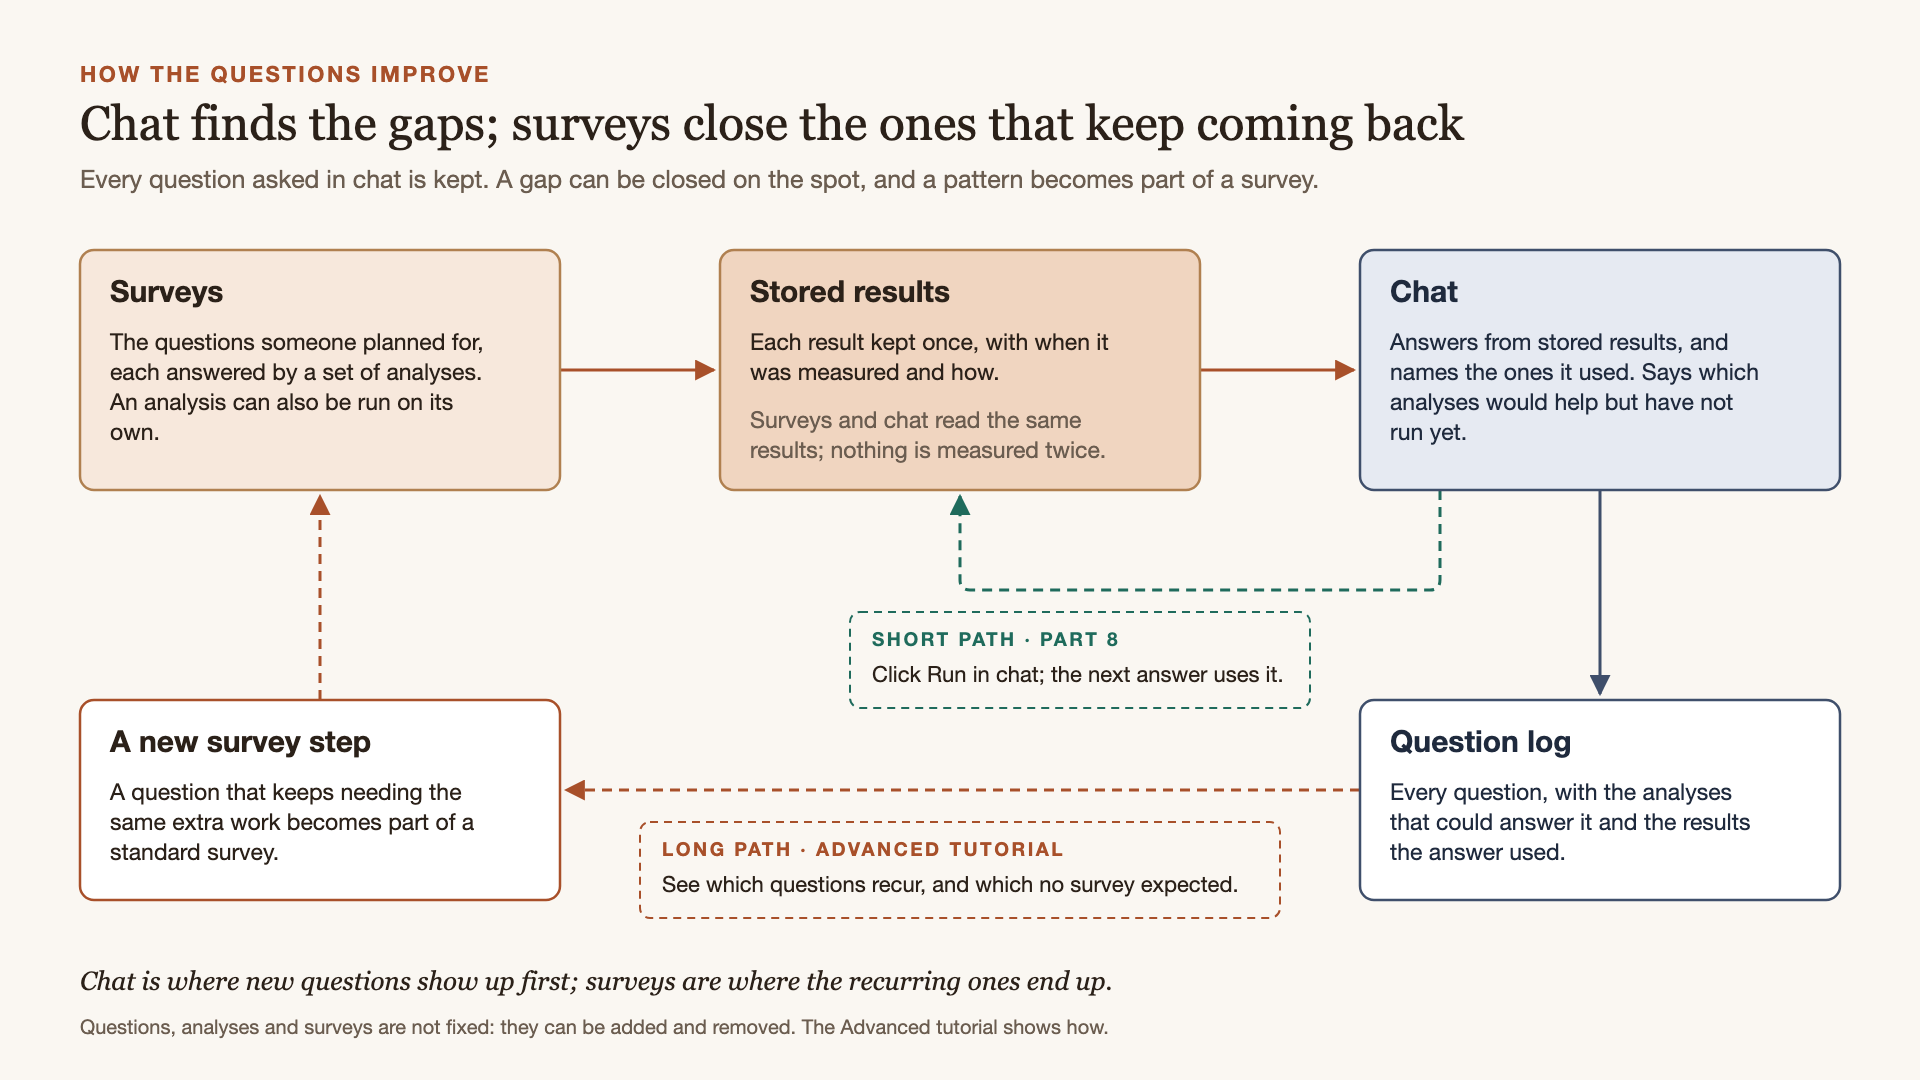
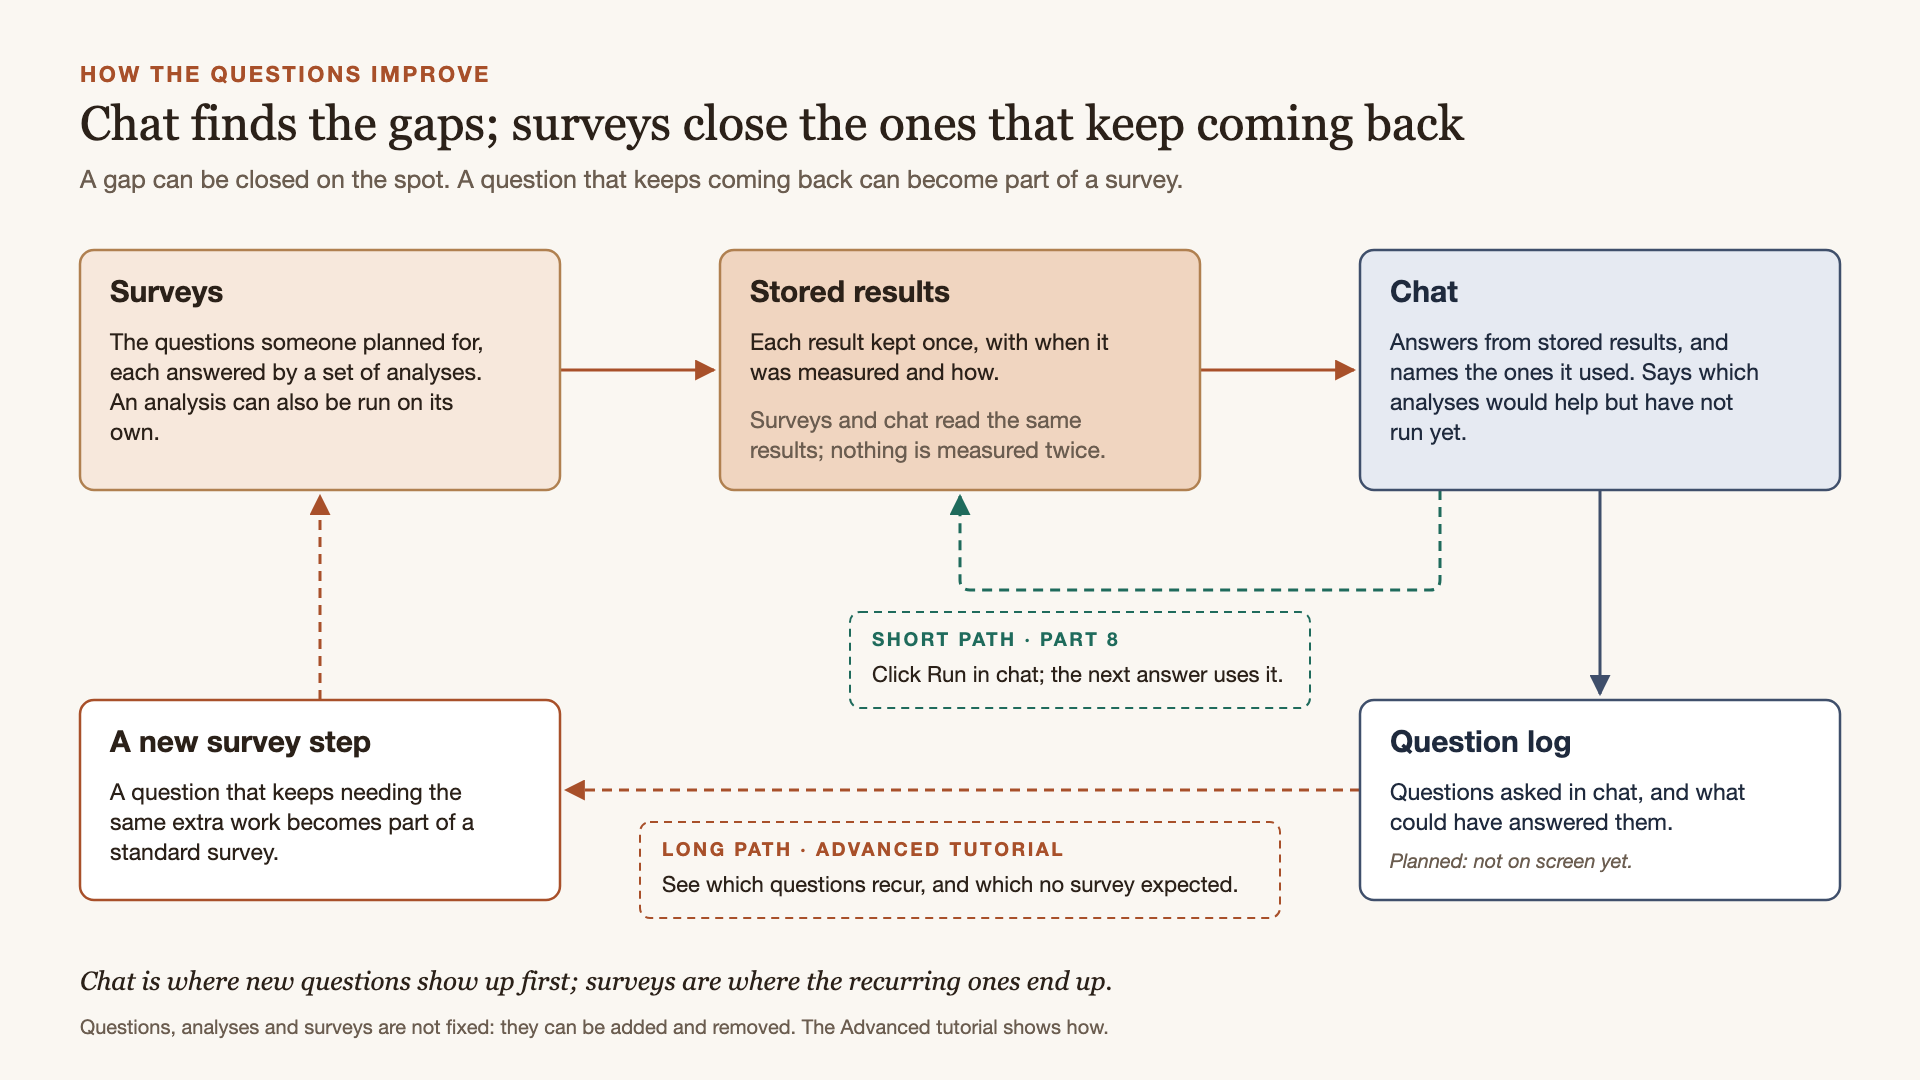
RE tutorial: Curate decisions explainer; question log marked as planned
The Curate decision table, redrawn at 16:9 as an explainer for part 9 with
numbered callouts. The question loop's log box now says it is not on screen
yet. The anatomy of a question moves to the Advanced tutorial.

Changed region(s): [[0.0312, 0.1528, 0.6875, 0.1833], [0.7188, 0.7028, 0.9062, 0.825]]

diff --git a/packages/resource-explorer/docs/tutorial-outline.md b/packages/resource-explorer/docs/tutorial-outline.md
@@ -880,13 +880,13 @@ carry words the tutorial avoids, so each needs a check, and some a redrawn label
 |---|---|---|
 | S1 (part 1) and S12 (part 4), the funnel | part 1, `resource-explorer-funnel-v5.png` | **Redrawn for the tutorial, 2026-10-29:** [`tutorial-media/funnel.svg`](tutorial-media/funnel.svg), rendered at 1920 × 1080 as `funnel.png`. Same palette; plain words (no "graduate" or "outbox"); stages described for every kind of data source; chat added; the funnel shown as a guide, not a rule. For the owner's review. |
 | Part 1, the screen in use | part 1, `Portal-6.1-overview_2.png` (Assessment question cards) | Shows questions tagged by perspective, each answer naming its analysis. |
-| Part 4, what a question is | part 2, `anatomy-of-a-question.png` | Optional; may be Advanced material. |
-| Part 9, Include / Leave out | part 3, `curate-decision-table-v2.png` | A database's schemas with a decision each. Can replace S29 if the screen still matches. |
+| Not for the Core tutorial: what a question is | part 2, `anatomy-of-a-question.png` | Advanced tutorial (owner, 2026-10-29). |
+| Part 9, Include / Leave out | part 3, `curate-decision-table-v2.png` | A database's schemas with a decision each. Needed in the Core tutorial (owner, 2026-10-29). **Redrawn as an explainer, 2026-10-29:** [`tutorial-media/curate-decisions.svg`](tutorial-media/curate-decisions.svg), rendered as `curate-decisions.png`: five rows (included and cataloged, left out, a suggestion, undecided and not known) with numbered callouts. It explains the idea; S29 is still captured from the real screen, which may have changed since the blog. For the owner's review. |
 | Part 10, before Publish | part 3, `curate-commit-summary.png` | "What this commit does". Check it is still the screen; "commit" needs explaining or avoiding. |
 | Part 10 · 7, checking in Egeria | part 3, `question-in-egeria-1600.jpg` (a question viewed in Egeria Explorer); Workspaces 6.1, `Portal-6.1.png` (the Quickstart portal home) | Egeria Explorer is the place to look (owner, 2026-10-29); the portal home shows where to open it. |
 | Part 8, an answer and its sources | part 4, `p4-fig2a-docling-answer.png` | The answer with its stored results listed above it. |
 | Part 8 · 5, what would answer this | part 4, `p4-fig2b-docling-gaps-v3.png` | Analyses with no stored result, each with Run. |
-| Part 8, how questions improve | part 4, `part4-fig3-question-loop-v2.png` | The surveys-and-chat loop; a good closing picture for part 8. **Redrawn for the tutorial, 2026-10-29:** [`tutorial-media/question-loop.svg`](tutorial-media/question-loop.svg), rendered at 1920 × 1080 as `question-loop.png`. Same palette as the funnel; no "compile" or "routed"; the short path is tied to part 8 (Run in chat) and the long path to the Advanced tutorial. Not yet confirmed: where a reader of the Core tutorial can see the question log, if anywhere. For the owner's review. |
+| Part 8, how questions improve | part 4, `part4-fig3-question-loop-v2.png` | The surveys-and-chat loop; a good closing picture for part 8. **Redrawn for the tutorial, 2026-10-29:** [`tutorial-media/question-loop.svg`](tutorial-media/question-loop.svg), rendered at 1920 × 1080 as `question-loop.png`. Same palette as the funnel; no "compile" or "routed"; the short path is tied to part 8 (Run in chat) and the long path to the Advanced tutorial. The question log is not on screen yet (on the backlog, owner, 2026-10-29), so its box says "Planned: not on screen yet". For the owner's review. |
 | Part 12 · 8, the journal entry | part 4, `p4-fig2c-docling-journal.png` | Shows the entry's provenance. |
 | Not for the Core tutorial | part 4, `part4-fig1-chat-turn-v2.png` and `part4-fig4-compile-budget.png` | Internal mechanics (compile id, manifest, budget). Advanced, if anywhere. |
 
@@ -1007,4 +1007,4 @@ Overview, PostgreSQL, GitHub, Quickstart. The prose writer adds any other name t
 |---|---|---|
 | V-a | Who produces the episodes (script assembly, Audiate, editing) | **Decided (project owner, 2026-10-29):** a Claude session prepares a kit per episode (an Audiate-ready script with slide markers, the pronunciation list, the ordered slide list with callouts, the YouTube title, description and chapters, and a caption file to check); the owner voices it in Audiate and edits in Camtasia. |
 | V-b | Where they are published | **Decided (project owner, 2026-10-29):** YouTube. Each written part links to its episode. |
-| V-c | Whether the blog diagrams are redrawn for 16:9 | In progress: the funnel and the question loop are redrawn (section 6); the owner asked for the next after reviewing the funnel. Several carry words the tutorial avoids (section 6). Editable sources exist for some, outside the repo, in the trellis checkout's `Claude outputs/` folder and its root: `anatomy-of-a-question.svg`, `part4-fig3-question-loop.html`, `part4-fig1-chat-turn.html`, `part4-fig4-compile-budget.html`, and `resource-explorer-survey-funnel.pptx` (probably the funnel). |
+| V-c | Whether the blog diagrams are redrawn for 16:9 | In progress: the funnel, the question loop and the Curate decisions are redrawn (section 6). The anatomy of a question goes to the Advanced tutorial. Several carry words the tutorial avoids (section 6). Editable sources exist for some, outside the repo, in the trellis checkout's `Claude outputs/` folder and its root: `anatomy-of-a-question.svg`, `part4-fig3-question-loop.html`, `part4-fig1-chat-turn.html`, `part4-fig4-compile-budget.html`, and `resource-explorer-survey-funnel.pptx` (probably the funnel). |
